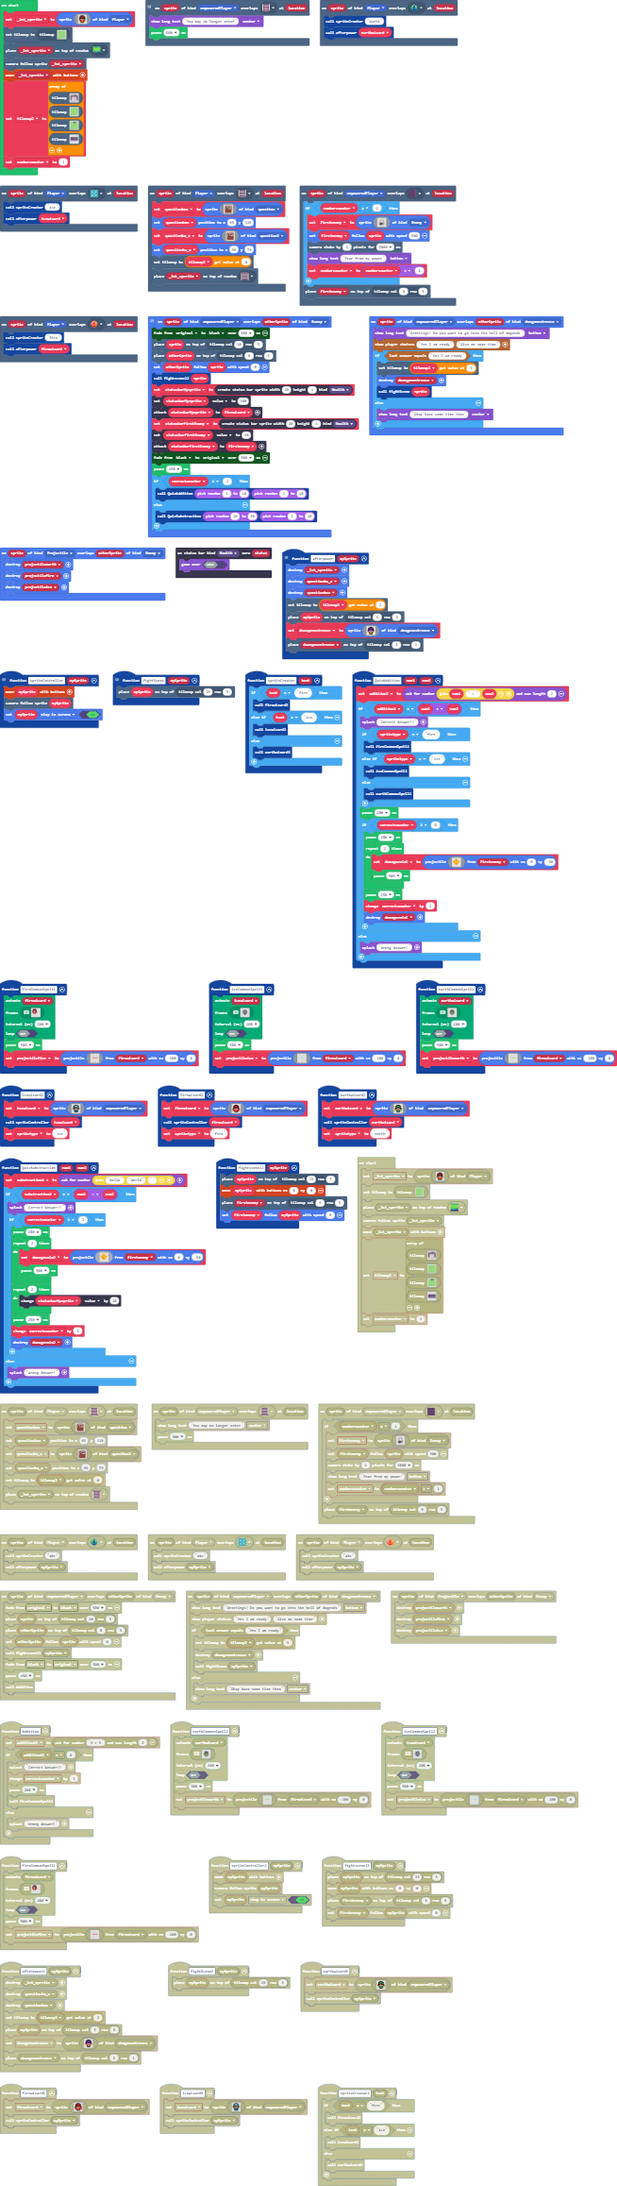
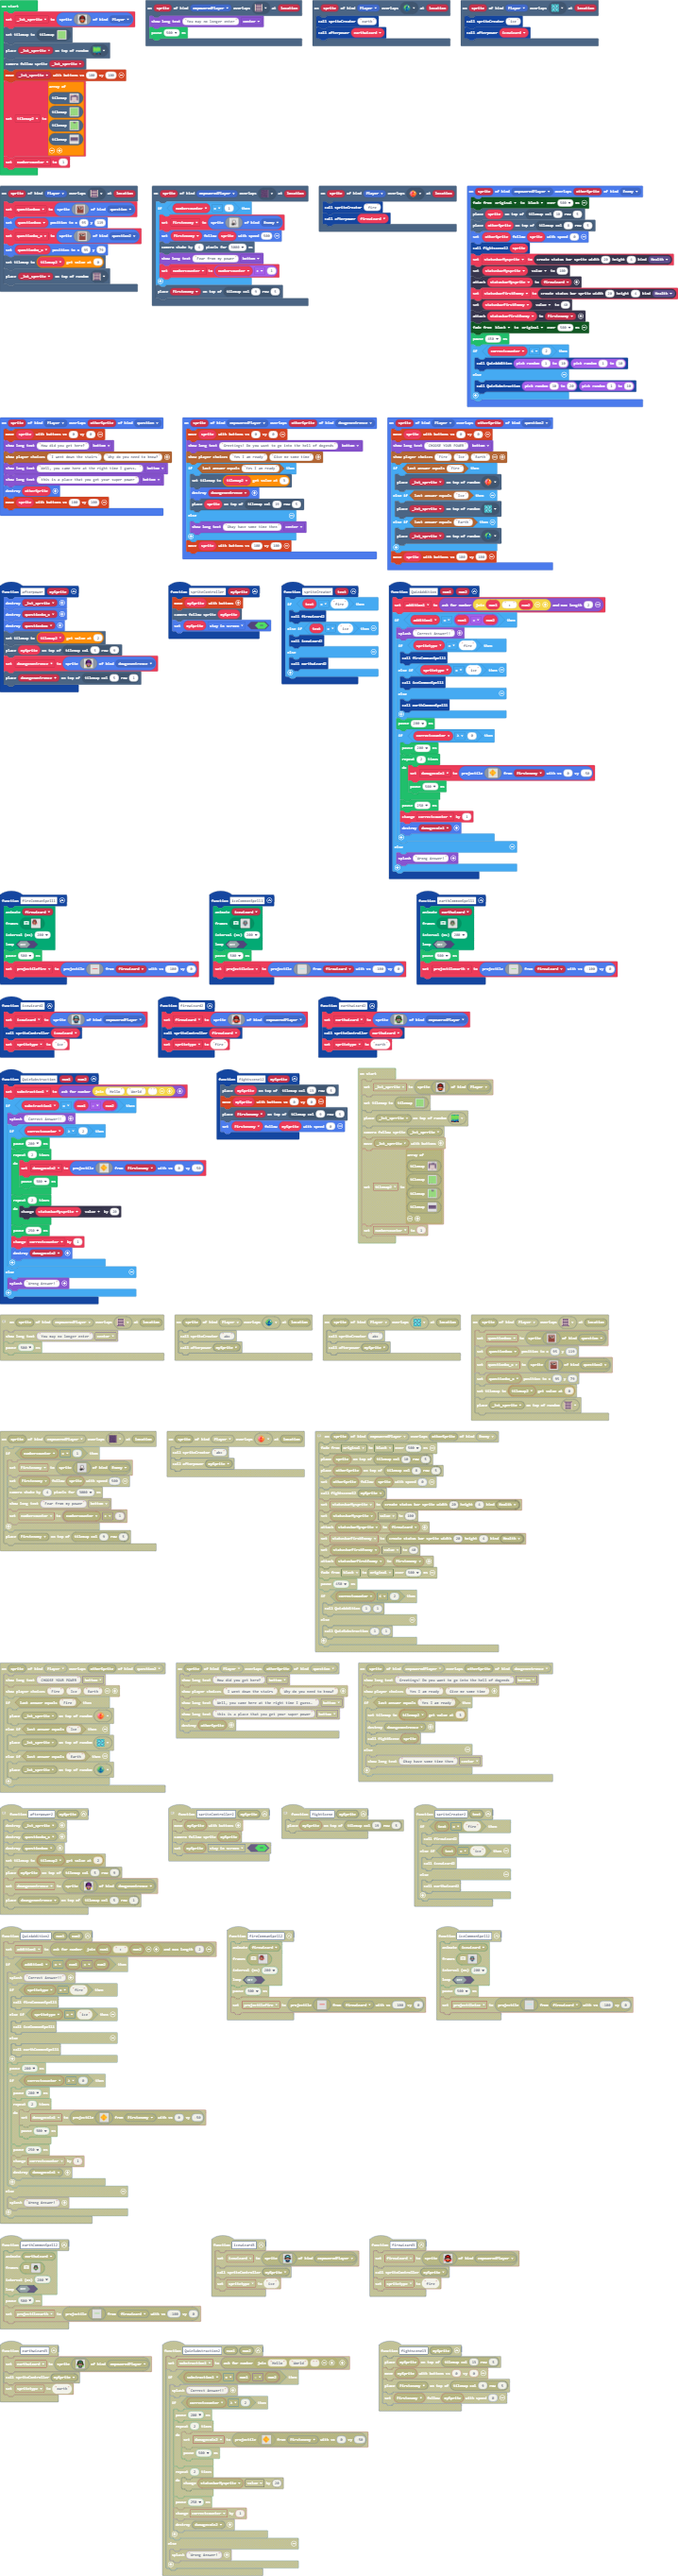
Update pxt.json, main.blocks, main.ts, tilemap.g.jres, tilemap.g.ts

diff --git a/main.ts b/main.ts
@@ -85,39 +85,38 @@ scene.onOverlapTile(SpriteKind.Player, sprites.dungeon.stairNorth, function (spr
     tiles.placeOnRandomTile(_1st_sprrite, sprites.dungeon.stairSouth)
 })
 sprites.onOverlap(SpriteKind.empoweredPlayer, SpriteKind.dougenentrence, function (sprite, otherSprite) {
+    controller.moveSprite(sprite, 0, 0)
     game.showLongText("Greetings! Do you want to go into the hell of dogends", DialogLayout.Bottom)
     story.showPlayerChoices("Yes I am ready", "Give me some time")
     if (story.checkLastAnswer("Yes I am ready")) {
         tiles.setCurrentTilemap(tilemap2[3])
         sprites.destroy(doungenentrence)
-        fightScene(sprite)
+        tiles.placeOnTile(sprite, tiles.getTileLocation(19, 5))
     } else {
         game.showLongText("Okay have some time then", DialogLayout.Center)
     }
+    controller.moveSprite(sprite, 100, 100)
 })
-// Code written by Nate Au.
 scene.onOverlapTile(SpriteKind.empoweredPlayer, sprites.dungeon.stairNorth, function (sprite, location) {
     game.showLongText("You may no longer enter", DialogLayout.Center)
     pause(500)
 })
 sprites.onOverlap(SpriteKind.Player, SpriteKind.question, function (sprite, otherSprite) {
+    controller.moveSprite(sprite, 0, 0)
     game.showLongText("How did you get here?", DialogLayout.Bottom)
     story.showPlayerChoices("I went down the stairs", "Why do you need to know?")
     game.showLongText("Well, you came here at the right time I guess. ", DialogLayout.Bottom)
     game.showLongText("this is a place that you get your super power", DialogLayout.Bottom)
     sprites.destroy(otherSprite)
+    controller.moveSprite(sprite, 100, 100)
 })
-// Code written by Nate Au.
 function spriteController (mySprite: Sprite) {
     controller.moveSprite(mySprite)
     scene.cameraFollowSprite(mySprite)
     mySprite.setFlag(SpriteFlag.StayInScreen, true)
 }
-// Code written by Nate Au.
-function fightScene (mySprite: Sprite) {
-    tiles.placeOnTile(mySprite, tiles.getTileLocation(19, 5))
-}
 sprites.onOverlap(SpriteKind.Player, SpriteKind.question2, function (sprite, otherSprite) {
+    controller.moveSprite(sprite, 0, 0)
     game.showLongText("CHOOSE YOUR POWER", DialogLayout.Bottom)
     story.showPlayerChoices("Fire", "Ice", "Earth")
     if (story.checkLastAnswer("Fire")) {
@@ -127,6 +126,7 @@ sprites.onOverlap(SpriteKind.Player, SpriteKind.question2, function (sprite, oth
     } else if (story.checkLastAnswer("Earth")) {
         tiles.placeOnRandomTile(_1st_sprrite, sprites.dungeon.collectibleBlueCrystal)
     }
+    controller.moveSprite(sprite, 100, 100)
 })
 function earthwizard2 () {
     earthwizard = sprites.create(img`
@@ -150,7 +150,6 @@ function earthwizard2 () {
     spriteController(earthwizard)
     spritetype = "earth"
 }
-// Code written by Nate Au.
 sprites.onOverlap(SpriteKind.empoweredPlayer, SpriteKind.Enemy, function (sprite, otherSprite) {
     color.startFade(color.originalPalette, color.Black, 500)
     tiles.placeOnTile(sprite, tiles.getTileLocation(10, 5))
@@ -460,7 +459,6 @@ function QuizAddition (num1: number, num2: number) {
         game.splash("Wrong Answer!")
     }
 }
-// Code written by Nate Au.
 function afterpower (mySprite: Sprite) {
     sprites.destroy(_1st_sprrite)
     sprites.destroy(questionbo_x)
@@ -1003,7 +1001,7 @@ _1st_sprrite = sprites.create(img`
 tiles.setCurrentTilemap(tilemap`level5`)
 tiles.placeOnRandomTile(_1st_sprrite, sprites.builtin.forestTiles22)
 scene.cameraFollowSprite(_1st_sprrite)
-controller.moveSprite(_1st_sprrite)
+controller.moveSprite(_1st_sprrite, 100, 100)
 tilemap2 = [
 tilemap`level1`,
 tilemap`level5`,

diff --git a/tilemap.g.ts b/tilemap.g.ts
@@ -707,6 +707,25 @@ namespace myTiles {
 . . . . . . . . . . . . . . . . 
 . . . . . . . . . . . . . . . . 
 `, [myTiles.transparency16], TileScale.Sixteen);
+            case "level38":
+            case "level38":return tiles.createTilemap(hex`1000100000000000000000000000000000000000000000000000000000000000000000000000000000000000000000000000000000000000000000000000000000000000000000000000000000000000000000000000000000000000000000000000000000000000000000000000000000000000000000000000000000000000000000000000000000000000000000000000000000000000000000000000000000000000000000000000000000000000000000000000000000000000000000000000000000000000000000000000000000000000000000000000000000000000000000000000000000000000000000000000000000000000000000000000000000000000`, img`
+. . . . . . . . . . . . . . . . 
+. . . . . . . . . . . . . . . . 
+. . . . . . . . . . . . . . . . 
+. . . . . . . . . . . . . . . . 
+. . . . . . . . . . . . . . . . 
+. . . . . . . . . . . . . . . . 
+. . . . . . . . . . . . . . . . 
+. . . . . . . . . . . . . . . . 
+. . . . . . . . . . . . . . . . 
+. . . . . . . . . . . . . . . . 
+. . . . . . . . . . . . . . . . 
+. . . . . . . . . . . . . . . . 
+. . . . . . . . . . . . . . . . 
+. . . . . . . . . . . . . . . . 
+. . . . . . . . . . . . . . . . 
+. . . . . . . . . . . . . . . . 
+`, [myTiles.transparency16], TileScale.Sixteen);
         }
         return null;
     })
